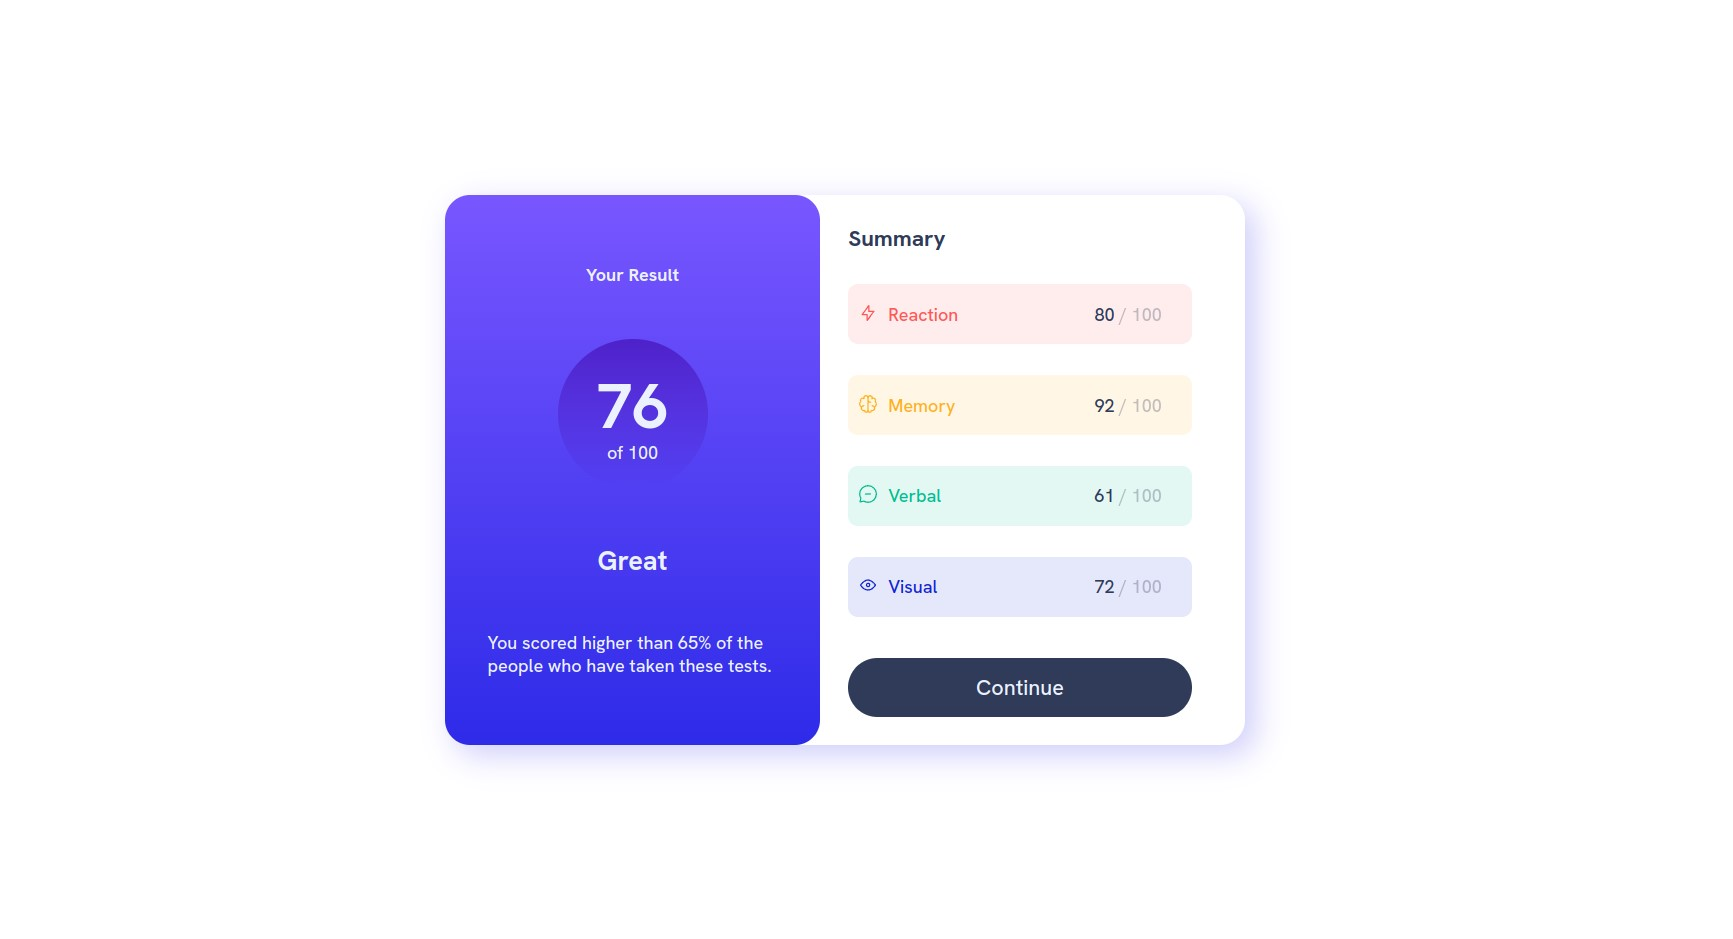
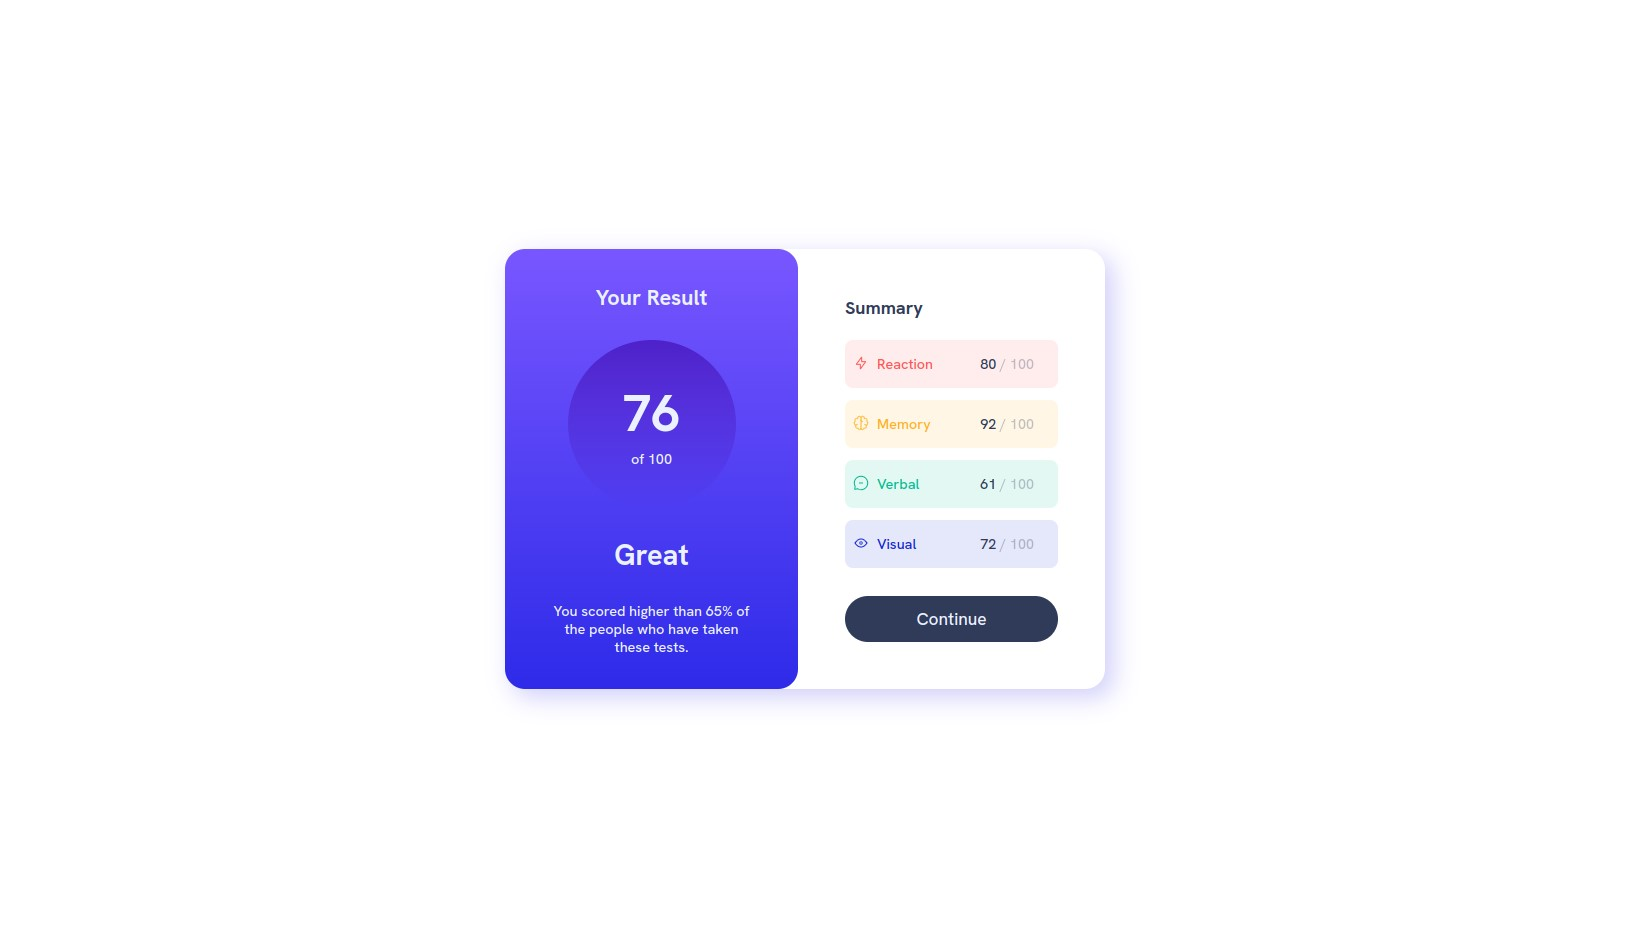
results-summary-component-main challenge minor fixes

Changed region(s): [[0.2498, 0.1853, 0.7183, 0.803], [0.7183, 0.2471, 0.7495, 0.7721], [0.3435, 0.5868, 0.4372, 0.6177]]

diff --git a/styles.css b/styles.css
@@ -32,7 +32,7 @@
     /* - Persian blue (circle): */
     --PERSIANBLUE: hsla(241, 72%, 46%, 0);
 
-    
+
     /* NEUTRAL */
     /* - White:  */
     --WHITE: hsl(0, 0%, 100%);
@@ -95,6 +95,14 @@ p.score {
     height: 460px;
     padding: 3vh;
     color: var(--DARKGRAYBLUE);
+}
+
+.atributes {
+    display: flex;
+    flex-flow: column;
+    justify-content: space-between;
+    color: var(--DARKGRAYBLUE);
+    gap: 16px;
 }
 
 h2 {
@@ -204,7 +212,7 @@ button {
 
 button:hover {
     background: linear-gradient(var(--L-SLATEBLUE), var(--L-ROYALBLUE));
-    cursor:pointer;
+    cursor: pointer;
 }
 
 @media screen and (min-width: 1080px) {
@@ -223,12 +231,35 @@ button:hover {
         box-shadow: 10px 10px 30px 1px hsla(241, 81%, 54%, 0.219);
         display: flex;
         height: 550px;
-        width: 800px;
+        width: 750px;
+    }
+
+    p.result {
+        font-size: 1.5em;
+    }
+
+    h1 {
+        font-size: 2em;
     }
 
     section.score {
         border-radius: 25px;
         height: 550px;
+        width: 450px;
+        justify-content: center;
+        gap: 35px;
+    }
+
+    .circle {
+        align-items: center;
+        background: linear-gradient(var(--VIOLETBLUE), var(--PERSIANBLUE));
+        border-radius: 105px;
+        display: flex;
+        flex-direction: column;
+        height: 210px;
+        justify-items: center;
+        padding: 50px;
+        width: 210px;
     }
 
     .summary {
@@ -238,8 +269,19 @@ button:hover {
         flex-flow: column;
         height: 550px;
         justify-content: space-between;
-        padding: 3vh;
-        width: 400px;
+        padding: 5vh;
+        width: 450px;
     }
 
+    p.score {
+        width: 250px;
+        text-align: center;
+    }
+
+    .atributes {
+        display: flex;
+        flex-flow: column;
+        justify-content: space-between;
+        gap: 15px;
+    }
 }

diff --git a/index.html b/index.html
@@ -28,25 +28,24 @@
 
     <section class="summary">
       <h2> Summary</h2>
-
-      <article class="reaction">
-        <p> Reaction</p>
-        <p>
-          <picture></picture> 80 <span>/ 100</span>
-        </p>
-      </article>
-      <article class="memory">
-        <p> Memory</p>
-        <p> 92 <span>/ 100</span></p>
-      </article>
-      <article class="verbal">
-        <p> Verbal</p>
-        <p> 61 <span>/ 100</span></p>
-      </article>
-      <article class="visual">
-        <p> Visual</p>
-        <p> 72 <span>/ 100</span></p>
-      </article>
+      <section class="atributes">
+        <article class="reaction">
+          <p> Reaction</p>
+          <p> 80 <span>/ 100</span></p>
+        </article>
+        <article class="memory">
+          <p> Memory</p>
+          <p> 92 <span>/ 100</span></p>
+        </article>
+        <article class="verbal">
+          <p> Verbal</p>
+          <p> 61 <span>/ 100</span></p>
+        </article>
+        <article class="visual">
+          <p> Visual</p>
+          <p> 72 <span>/ 100</span></p>
+        </article>
+      </section>
       <button>Continue</button>
 
     </section>
